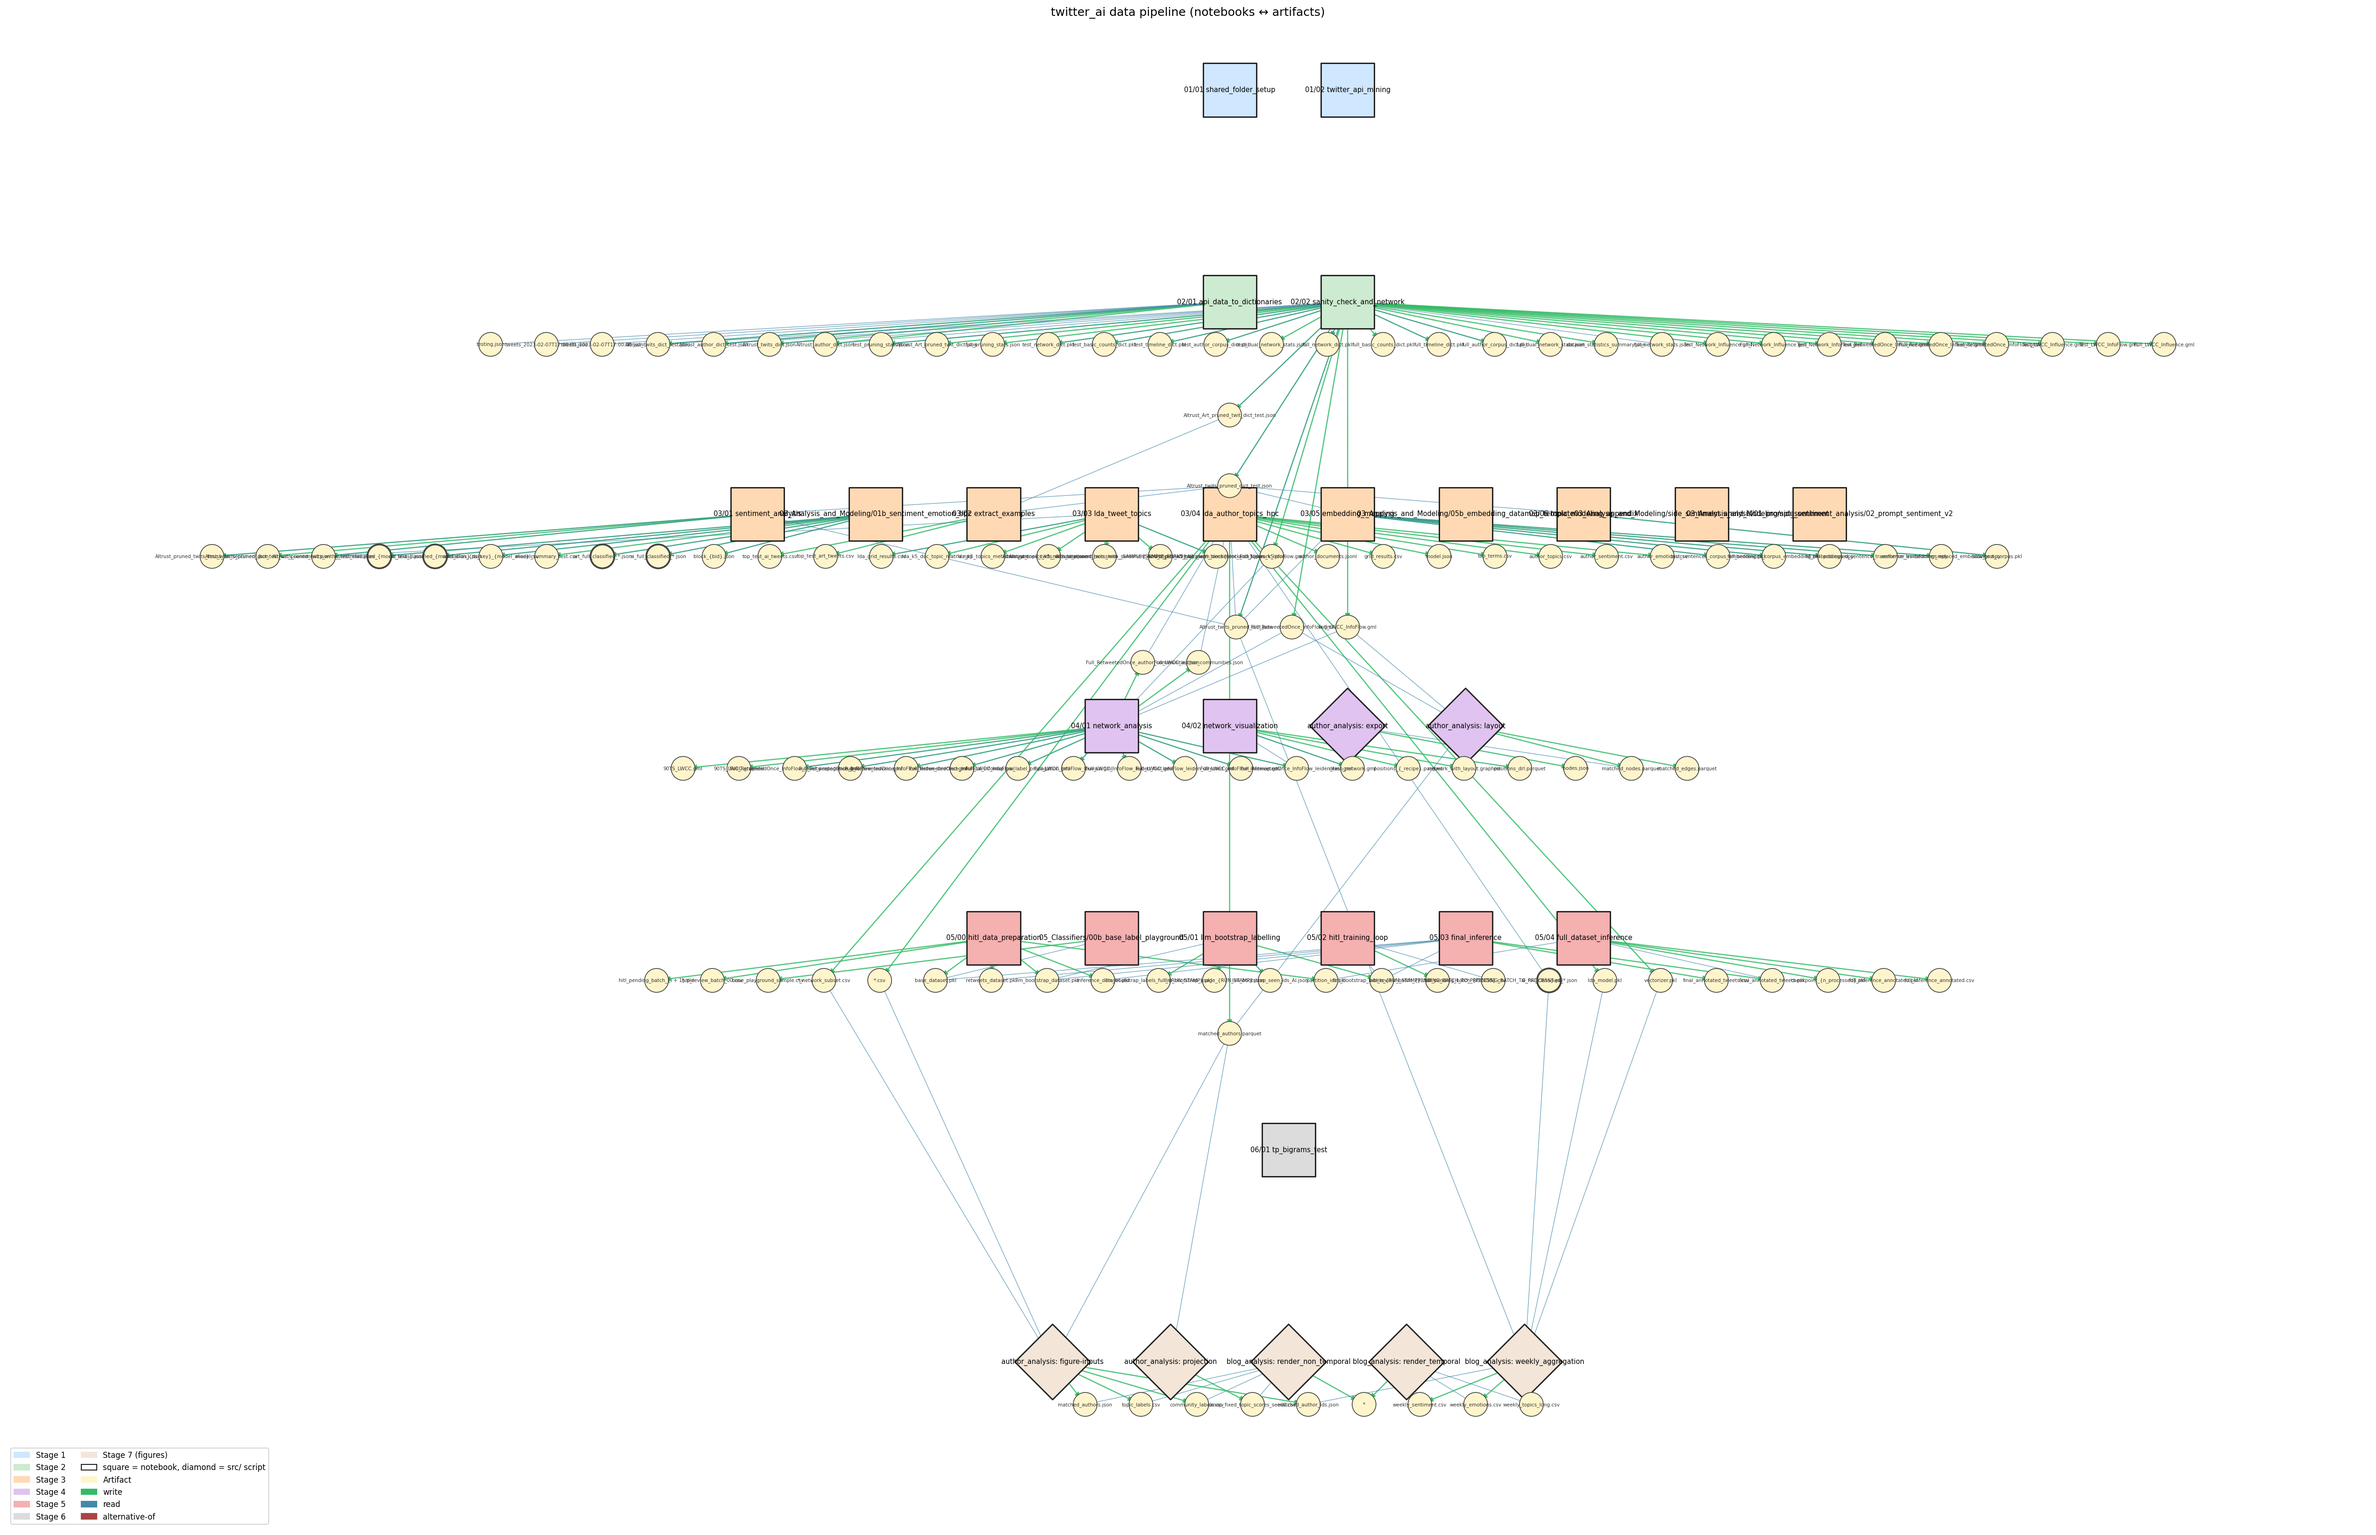
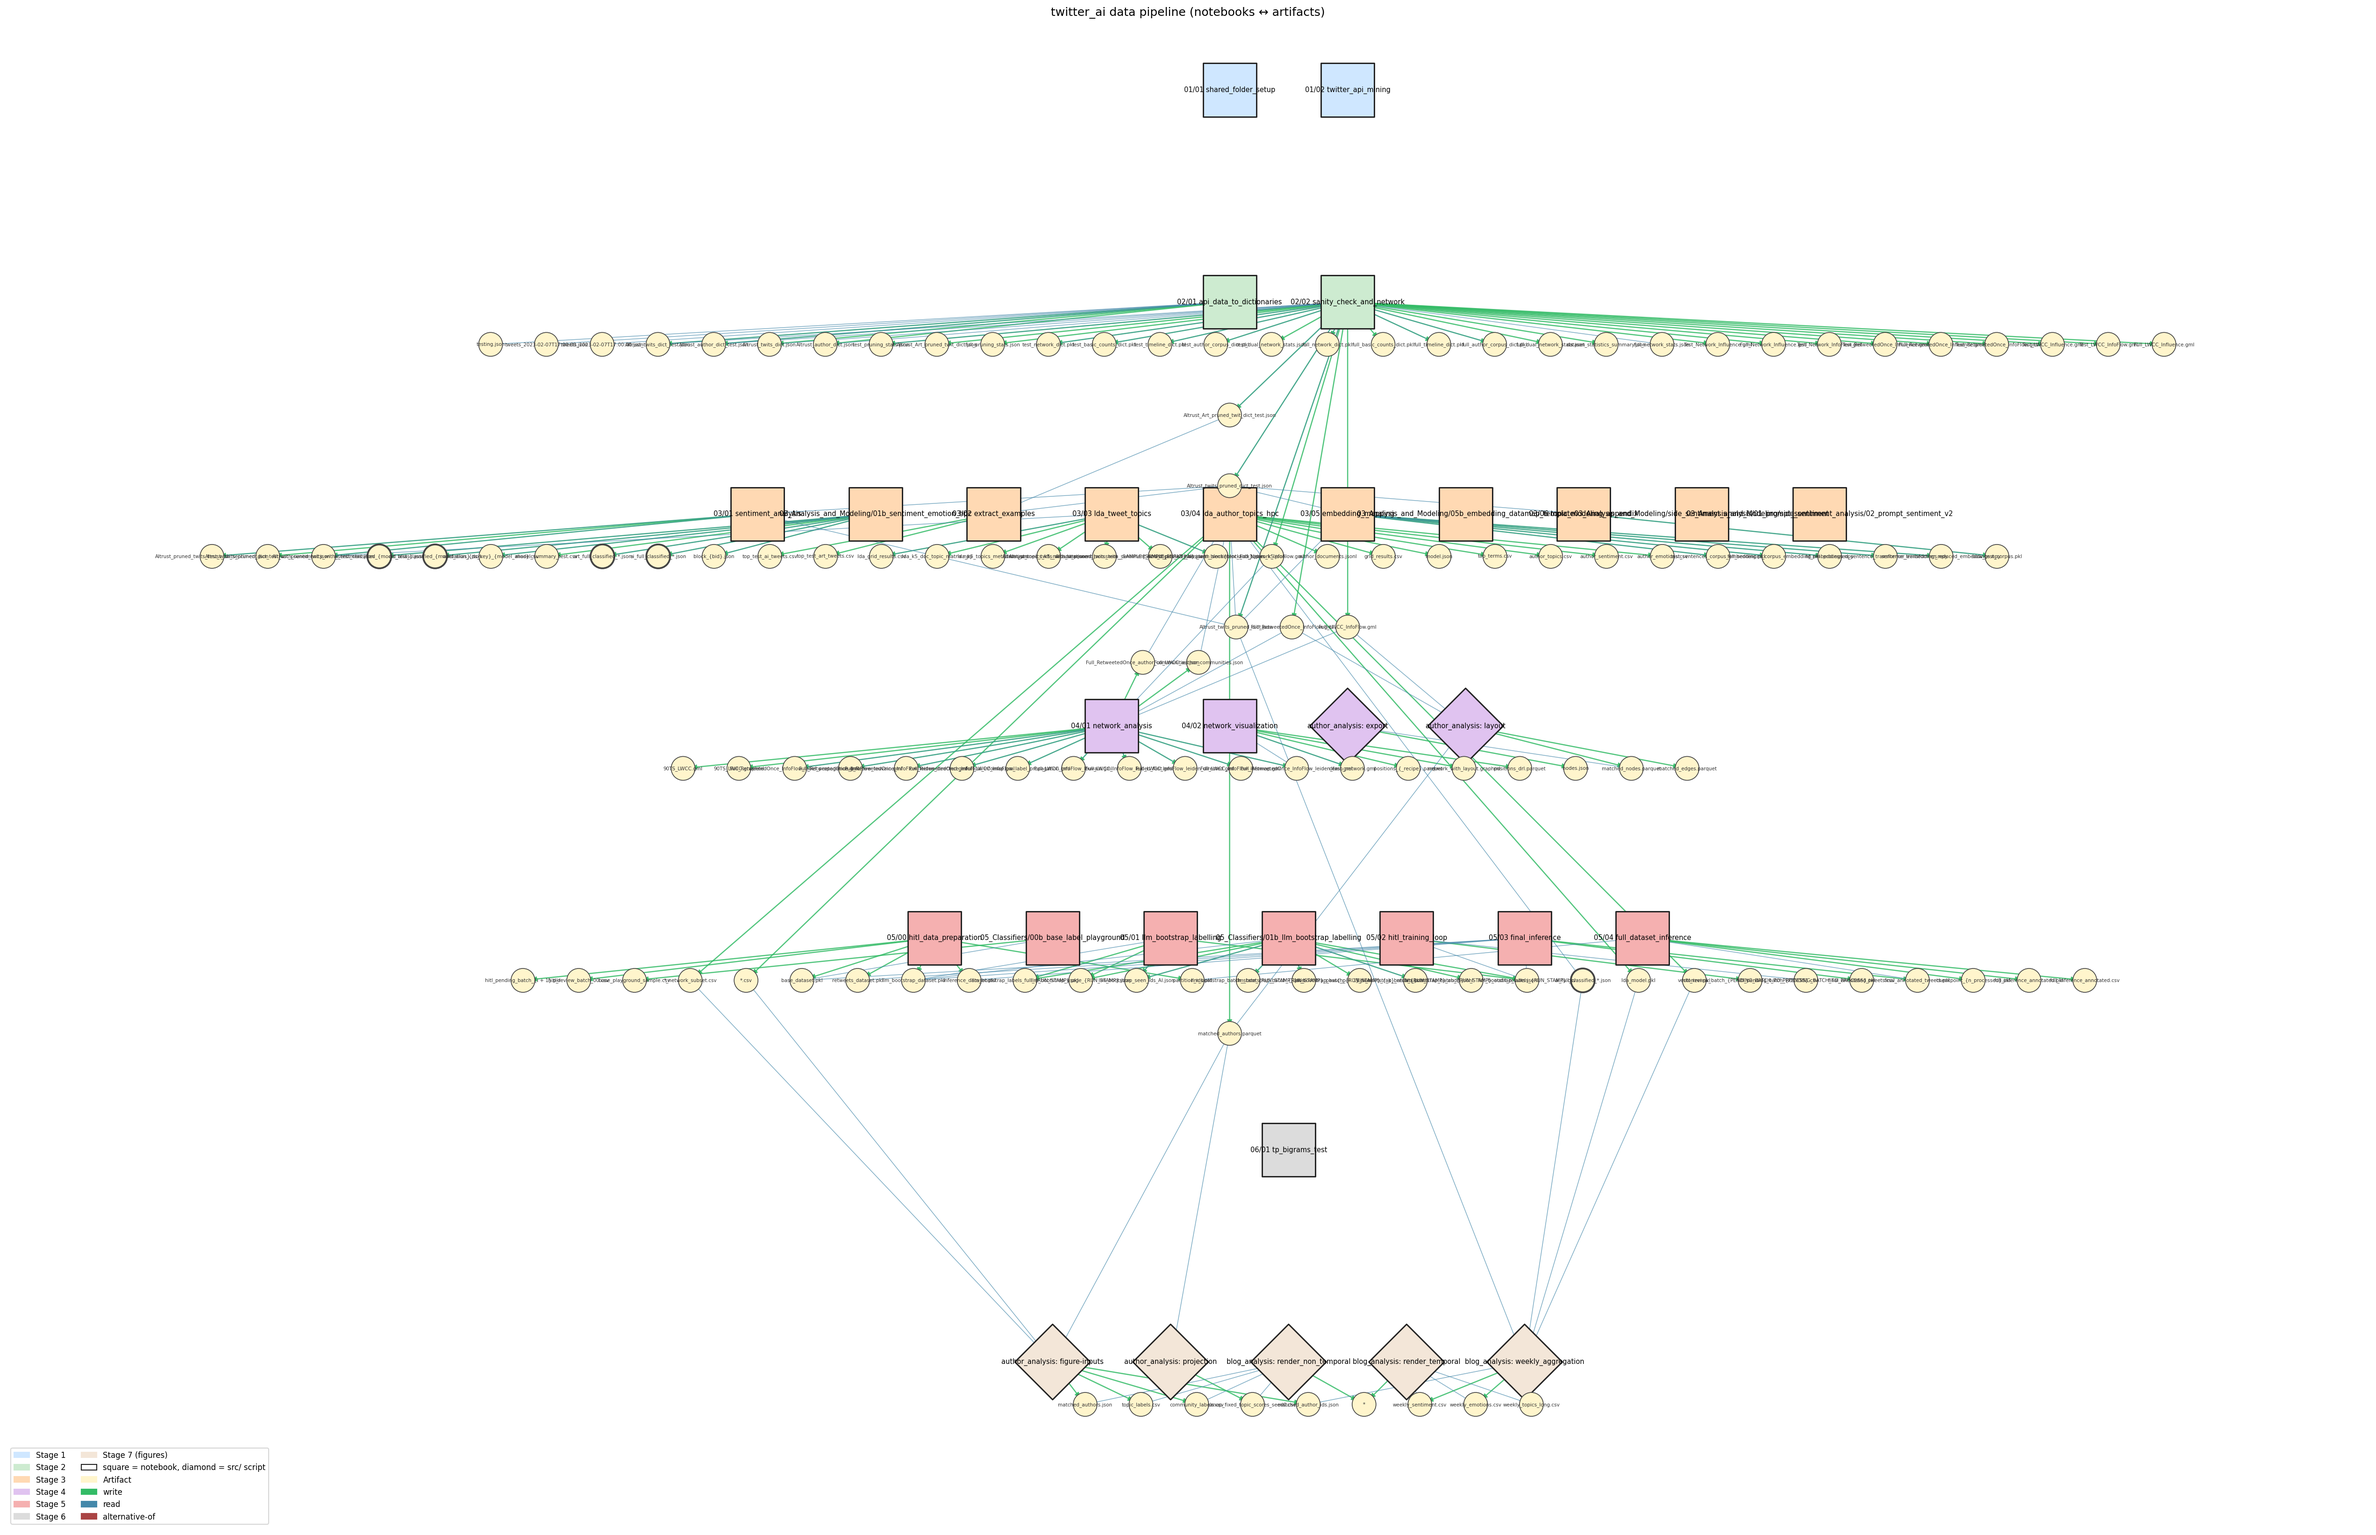
Enhance LLM Bootstrap Labelling Process
- Updated documentation to reflect changes in dataset files and their purposes, including new files for batch processing and audit reports.
- Added a new notebook (01b_llm_bootstrap_labelling) to handle additional labelling tasks, including improved audit reporting.
- Modified the pipeline graph to include the new notebook and associated artifacts.
- Adjusted the logic in the labelling notebook to ensure audit reports are saved alongside the labels CSV for better traceability.
- Introduced new JSON artifacts for batch processing and state management in the labelling workflow.

diff --git a/docs/AUTHOR_AND_NETWORK_PIPELINE_TRACE.md b/docs/AUTHOR_AND_NETWORK_PIPELINE_TRACE.md
@@ -418,7 +418,7 @@ Subfolders: `Partitioned Data/` (§13.4), `Tweet Sheets/` (§13.5), `Sentiment A
 | `base_dataset.pkl` | `05/00` | `05/00b`, `05/03` | HITL seed partition. |
 | `hitl_pending_batch_{i + 1}.pkl` | `05/00` | `05/02` (as `hitl_pending_batch_{PENDING_BATCH_TO_PROCESS}.pkl`) | Pending HITL batches, one per round. |
 | `inference_dataset.pkl` | `05/00` | `05/03` | Remainder held out for final inference. |
-| `llm_bootstrap_dataset.pkl` | `05/00` | `05/01`, `05/03` | Partition sent to the LLM labeller. |
+| `llm_bootstrap_dataset.pkl` | `05/00` | `05/01`, `05/01b`, `05/03` | Partition sent to the LLM labeller. |
 | `partition_ids.pkl` | `05/00` | `05/04` | Tweet ids per partition. |
 | `retweets_dataset.pkl` | `05/00` | `05/03` | Retweets split off from the partitions. |
 
@@ -435,10 +435,14 @@ Subfolders: `Partitioned Data/` (§13.4), `Tweet Sheets/` (§13.5), `Sentiment A
 | `HITL/base_playground_sample.csv` | `05/00b` | — | Sample for drafting label definitions. |
 | `HITL/hitl_review_batch_00.csv` | `05/00` | — | First human-review sheet. |
 | `HITL/hitl_review_batch_{PENDING_BATCH_TO_PROCESS}.csv` | `05/02` | — | Later review sheets. |
-| `HITL/llm_bootstrap_labels_<stamp>.csv` | `05/01` | `05/02`, `05/03` | LLM bootstrap labels, one file per run (stamp = start date and time); consumers read the newest. The pre-2026-10-19 unstamped `llm_bootstrap_labels.csv` is the 2,000-tweet run. |
-| `HITL/llm_bootstrap_labels_full_<stamp>.pkl` | `05/01` | — | Full bootstrap output with confidence and rationale. |
-| `HITL/llm_bootstrap_seen_ids_AI.json` | `05/01` | `05/01` | Ids already sent to the LLM (resume without re-billing). |
-| `HITL/llm_bootstrap_usage_{timestamp}.json` | `05/01` | — | API usage and cost per run. |
+| `HITL/llm_bootstrap_labels_<stamp>.csv` | `05/01`, `05/01b` | `05/02`, `05/03` | LLM bootstrap labels, one file per run (stamp = start date and time; for `05/01b`, the submit time); consumers read the newest, whichever notebook wrote it. The pre-2026-10-19 unstamped `llm_bootstrap_labels.csv` is the 2,000-tweet run. |
+| `HITL/llm_bootstrap_labels_full_<stamp>.pkl` | `05/01`, `05/01b` | — | Full bootstrap output with confidence and rationale. |
+| `HITL/llm_bootstrap_seen_ids_AI.json` | `05/01`, `05/01b` | `05/01`, `05/01b` | Ids already sent to the LLM; shared by both notebooks. |
+| `HITL/llm_bootstrap_usage_{timestamp}.json` | `05/01`, `05/01b` | — | API usage and cost per run; `05/01b` adds measured tokens, cost and the batch job names. |
+| `HITL/llm_bootstrap_audit_report_<stamp>.txt` | `05/01b` | — | The printed audit report (second opinion on `none`), saved as text. |
+| `HITL/batch/llm_bootstrap_batch_<stamp>_{pass1,pass2,audit}.jsonl` | `05/01b` | — | Batch API request files, one per job; the record of what was sent. |
+| `HITL/batch/llm_bootstrap_batch_<stamp>_{pass1,pass2,audit}_results.jsonl` | `05/01b` | — | Downloaded batch results; the API deletes its copy after six weeks. |
+| `HITL/batch/llm_bootstrap_batch_state_<stamp>.json` | `05/01b` | `05/01b` | Job names and selection of a batch run; read when `RESUME_RUN_STAMP` is set. |
 | `Final/final_annotated_tweets.pkl` (+ `.csv`) | `05/03` | `05/04` | Final annotations on the HITL remainder. |
 | `Full_Inference/full_inference_annotated.pkl` (+ `.csv`) | `05/04` | — | Classifier annotations for the full AI corpus. |
 | `Full_Inference/checkpoint_{n_processed}.pkl` | `05/04` | — | Checkpoints every 100k tweets. |
